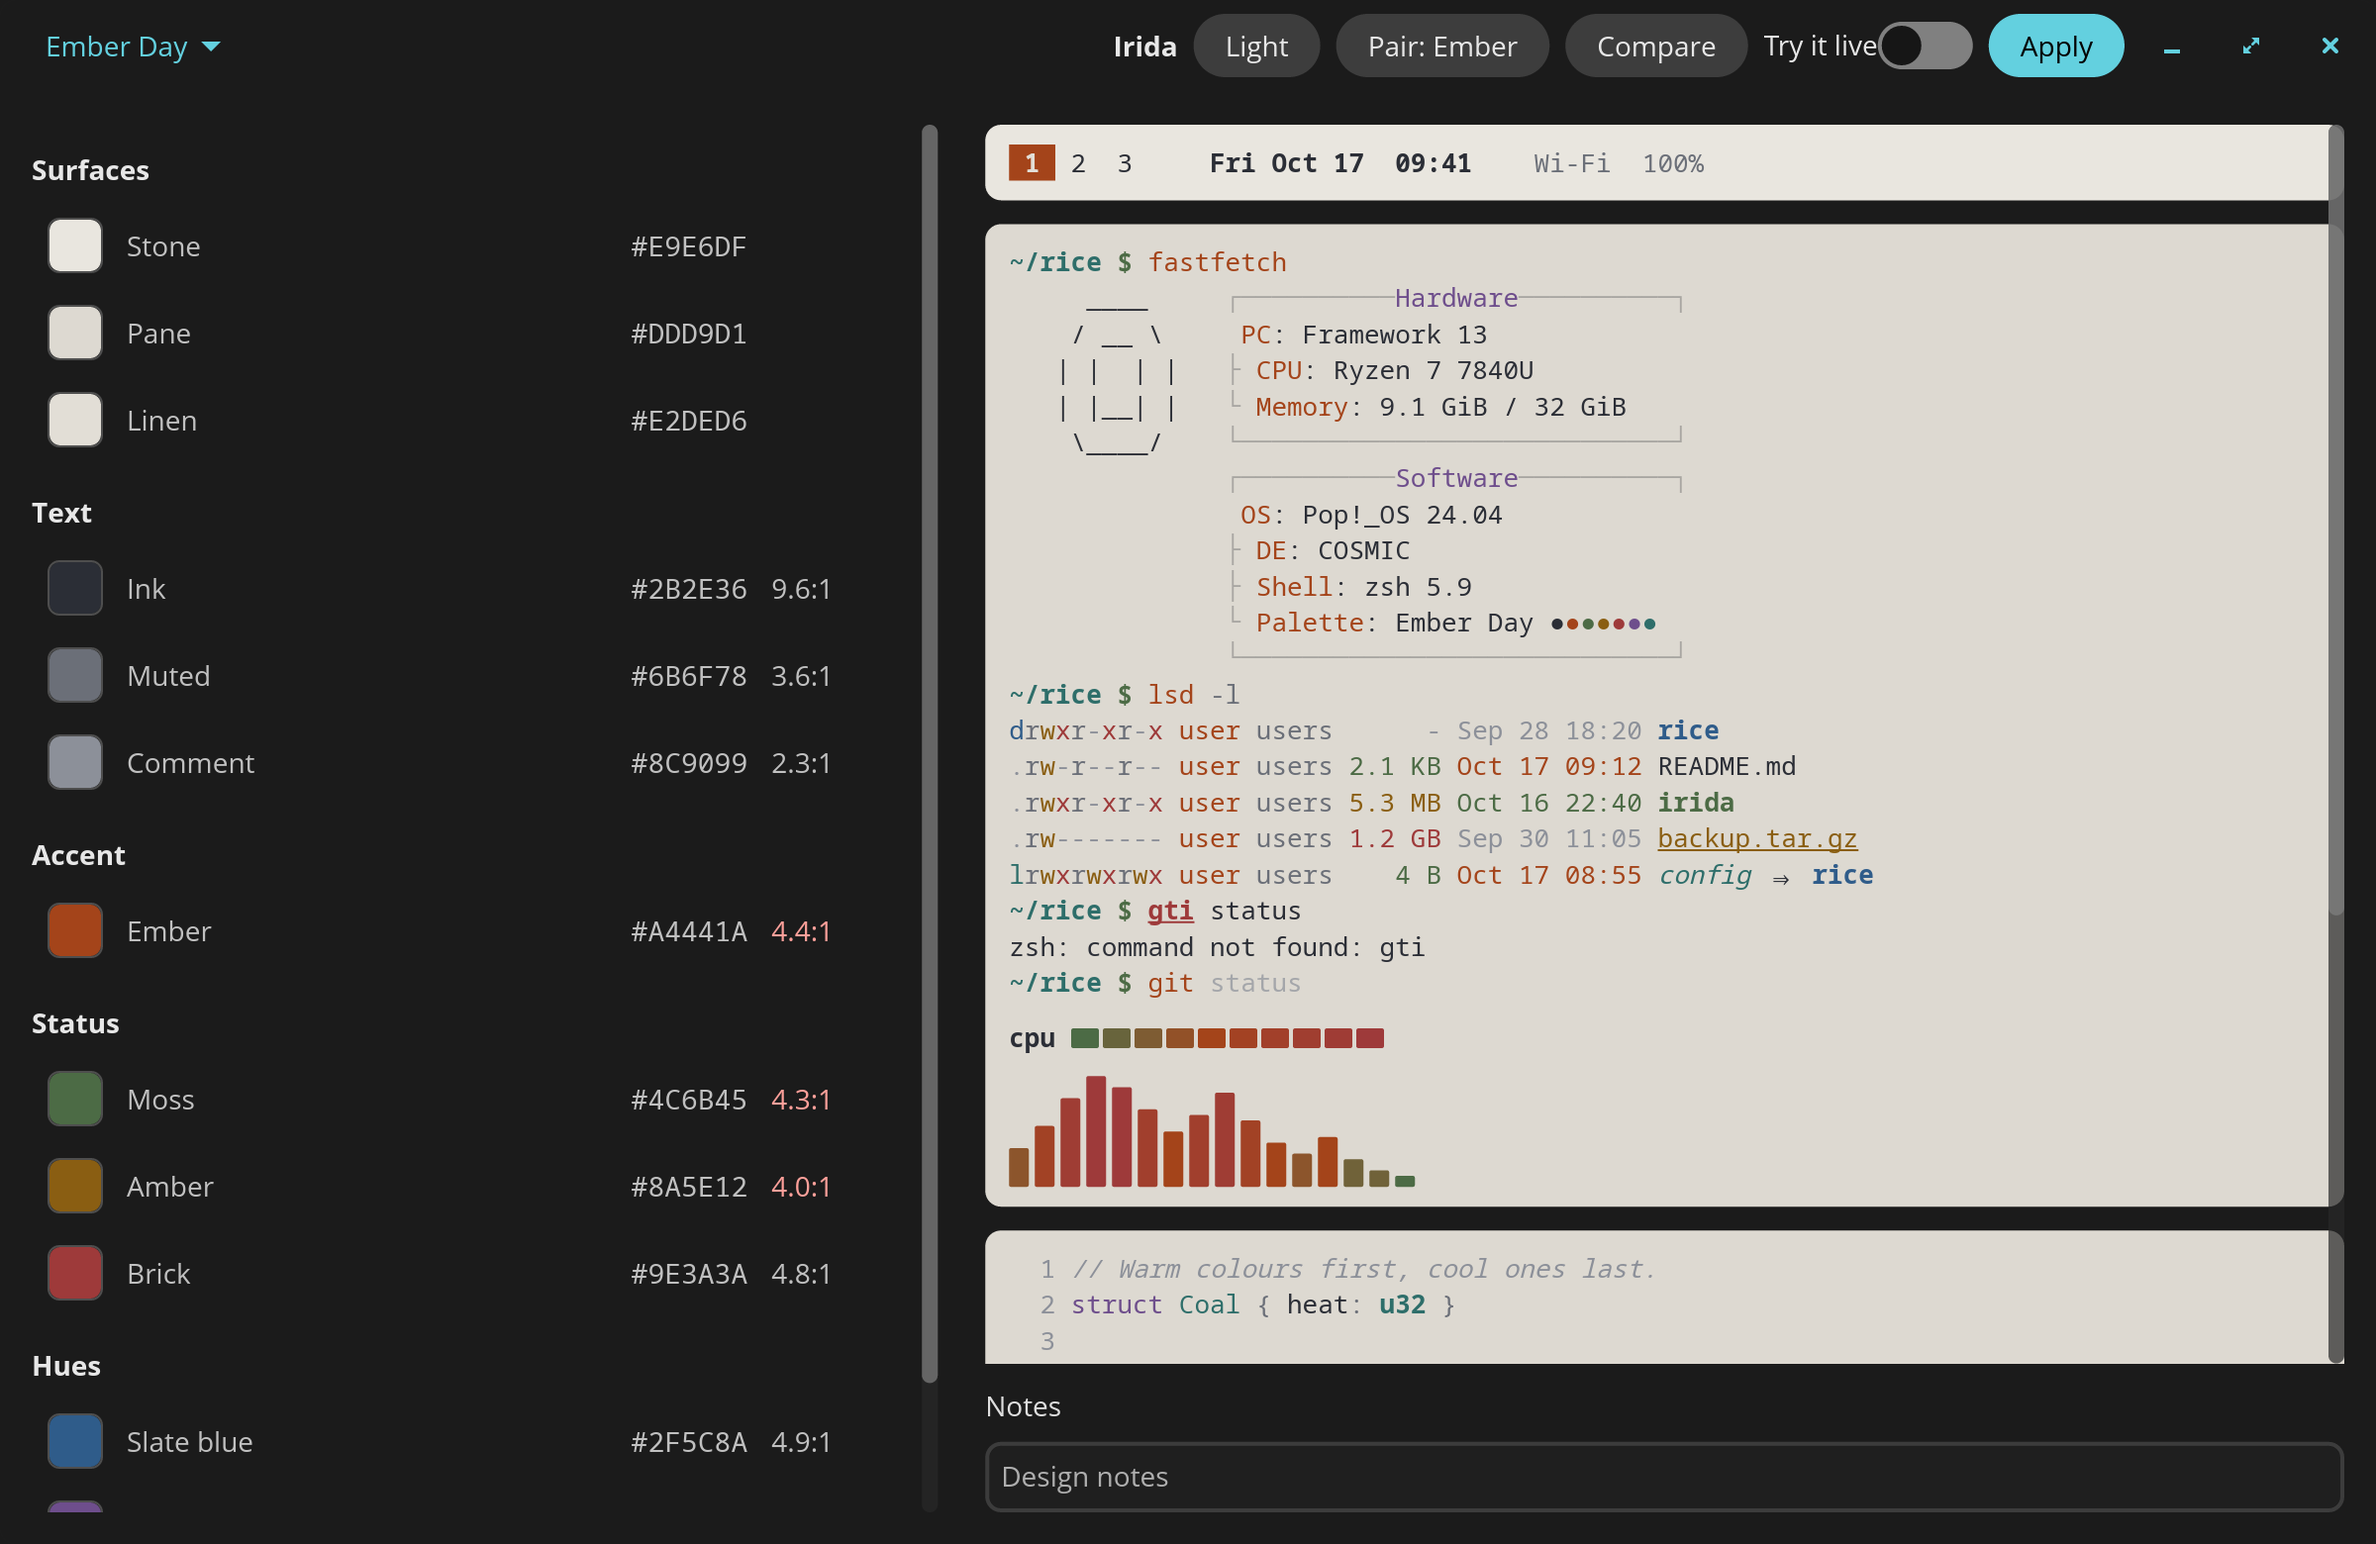
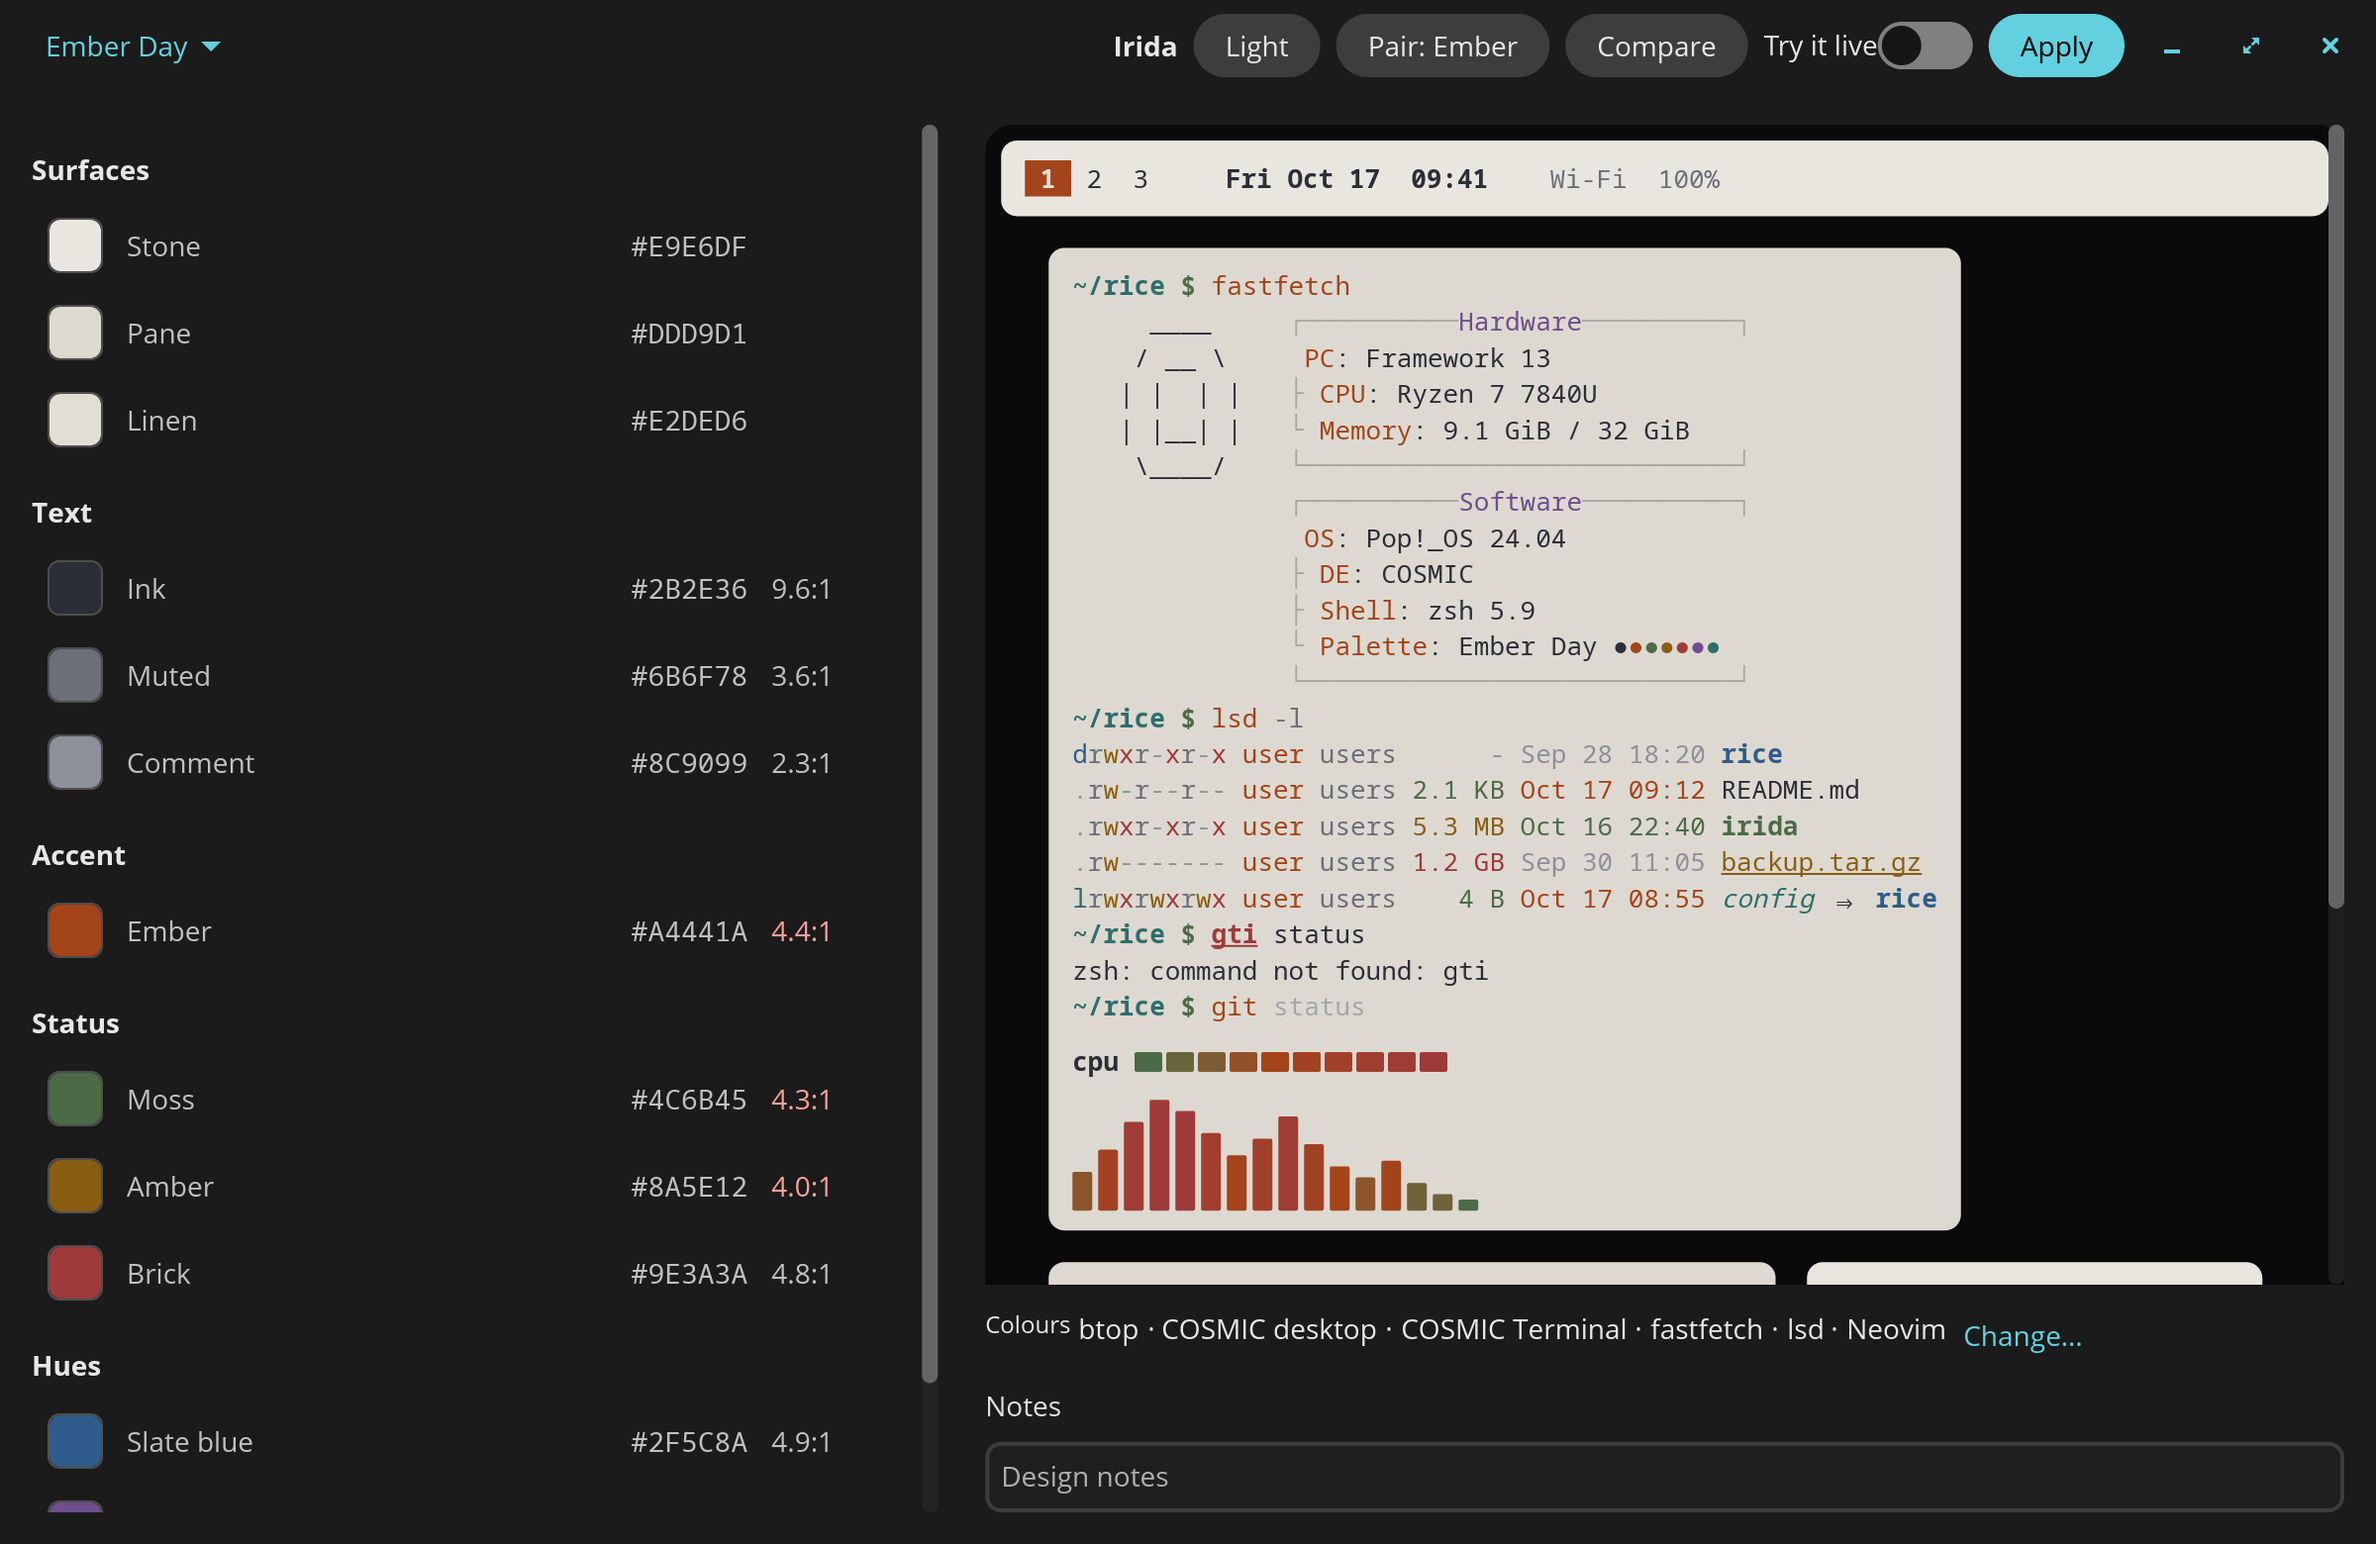
feat(app): the preview is a monitor: a thin bezel, centred, at most 1280 wide; README shots refreshed

Changed region(s): [[0.4062, 0.0615, 1.0, 0.8923]]

diff --git a/irida/src/app/preview.rs b/irida/src/app/preview.rs
@@ -309,7 +309,7 @@ pub fn view(s: Scene, image: Option<&ImageStatus>) -> Element<'static, Msg> {
         .push(desktop)
         .width(Length::Fill);
     let Some(ImageStatus::Ready { handle, .. }) = image else {
-        return column.into();
+        return monitor(column);
     };
     let photo = widget::image(handle.clone())
         .content_fit(ContentFit::Cover)
@@ -318,10 +318,38 @@ pub fn view(s: Scene, image: Option<&ImageStatus>) -> Element<'static, Msg> {
     // The column sets the size. The image sits under it and covers that area;
     // `clip` keeps the covered image from drawing past it, since the image
     // widget itself does not cut the overflow.
-    cosmic::iced::widget::stack([column.into()])
+    let screen = cosmic::iced::widget::stack([column.into()])
         .push_under(photo)
         .clip(true)
+        .width(Length::Fill);
+    monitor(screen)
+}
+
+/// The widest the monitor gets; it is centred when the column is wider.
+const MONITOR_MAX_WIDTH: f32 = 1280.;
+/// The bezel around the screen.
+const BEZEL: f32 = 8.;
+const BEZEL_COLOR: Color = Color::from_rgb(0.04, 0.04, 0.04);
+
+/// The preview as a monitor: the screen inside a thin dark bezel with
+/// rounded corners, centred and no wider than `MONITOR_MAX_WIDTH`. Its height
+/// follows the windows on the screen, so it is about 4:3 on a wide column and
+/// taller on a narrow one rather than clipping them.
+fn monitor<'a>(screen: impl Into<Element<'a, Msg>>) -> Element<'a, Msg> {
+    let framed = container(screen)
+        .padding(BEZEL)
+        .max_width(MONITOR_MAX_WIDTH)
+        .style(|_| container::Style {
+            background: Some(Background::Color(BEZEL_COLOR)),
+            border: Border {
+                radius: 14.0.into(),
+                ..Default::default()
+            },
+            ..Default::default()
+        });
+    container(framed)
         .width(Length::Fill)
+        .align_x(Alignment::Center)
         .into()
 }
 
